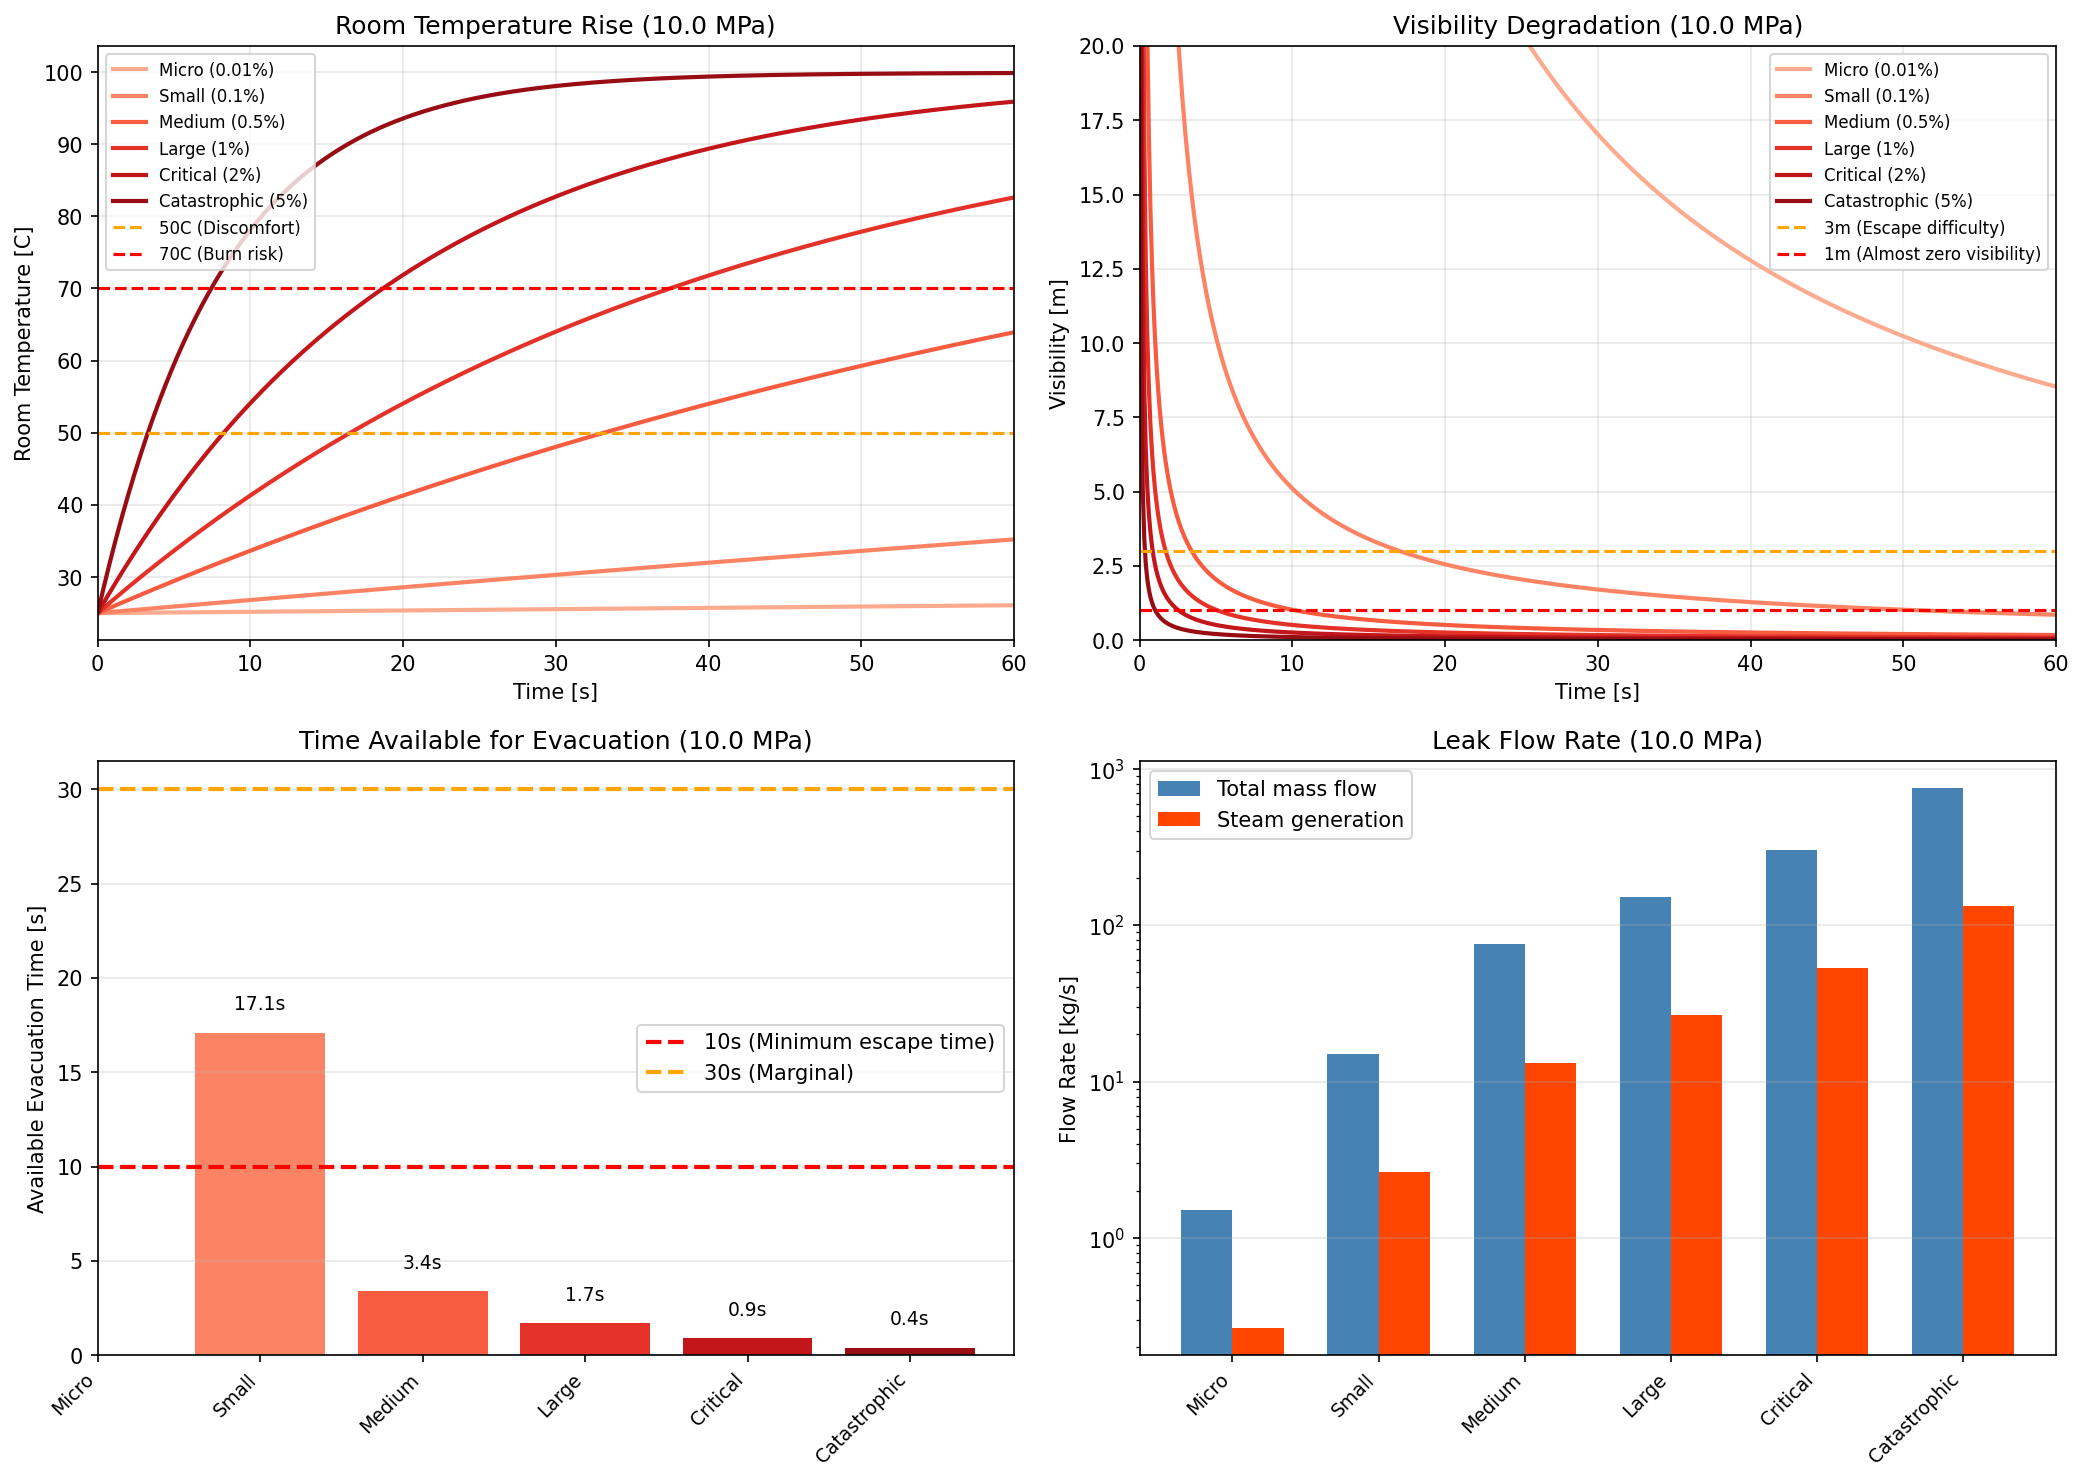
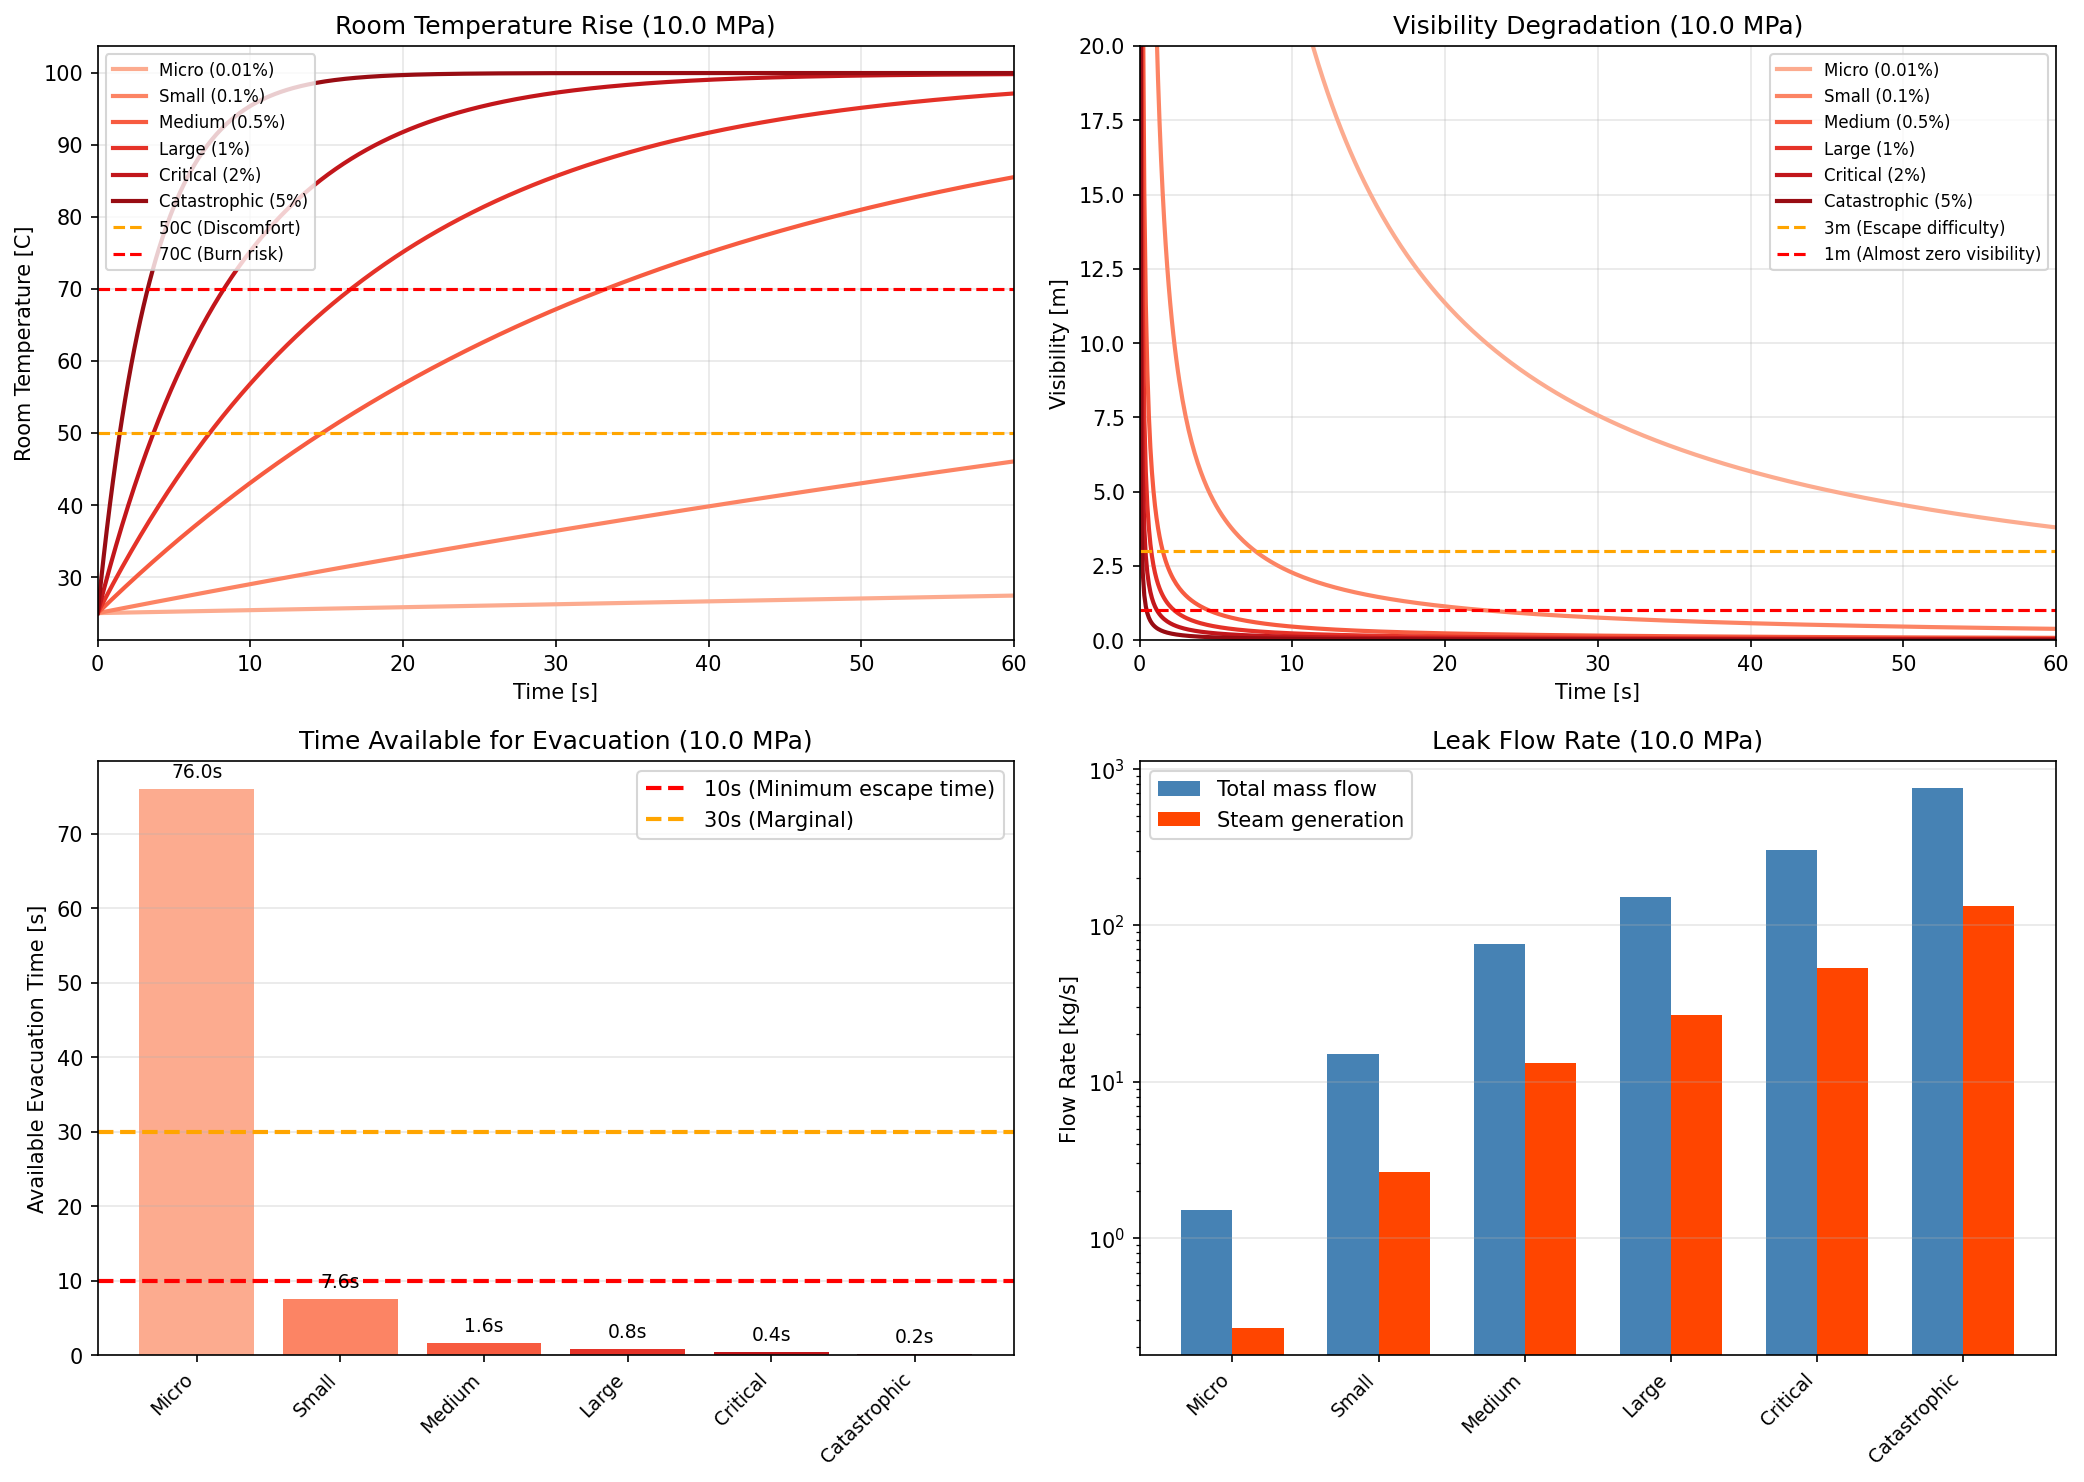
Update room size to 10m x 10m for both simulations
Changed room dimensions from 15m x 15m to 10m x 10m (400 m3).
Smaller room volume results in faster hazard escalation:

1.5 MPa case (10x10 room):
- Small (0.1%): visibility <3m in 20s (was 45s)
- Medium (0.5%): visibility <3m in 4.0s (was 9.0s)

10 MPa case (10x10 room):
- Small (0.1%): visibility <3m in 7.6s (was 17s)
- Medium (0.5%): visibility <3m in 1.6s (was 3.4s)

Conclusion remains unchanged: single-valve isolation is unsafe.

diff --git a/valve_leak_simulation.py b/valve_leak_simulation.py
@@ -55,8 +55,8 @@ class WaterProperties:
 @dataclass
 class RoomGeometry:
     """室内形状"""
-    length: float = 15.0    # m
-    width: float = 15.0     # m
+    length: float = 10.0    # m
+    width: float = 10.0     # m
     height: float = 4.0     # m (仮定)
 
     @property

diff --git a/valve_leak_simulation_10MPa.py b/valve_leak_simulation_10MPa.py
@@ -52,8 +52,8 @@ class WaterProperties:
 @dataclass
 class RoomGeometry:
     """Room dimensions"""
-    length: float = 15.0    # m
-    width: float = 15.0     # m
+    length: float = 10.0    # m
+    width: float = 10.0     # m
     height: float = 4.0     # m
 
     @property
